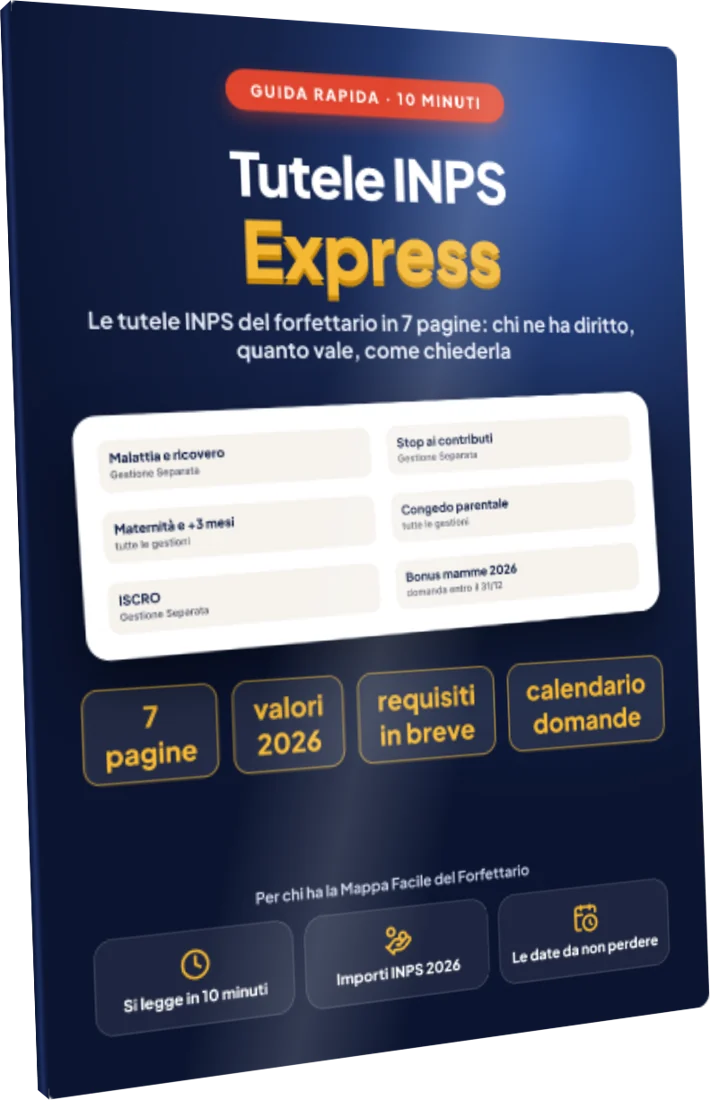
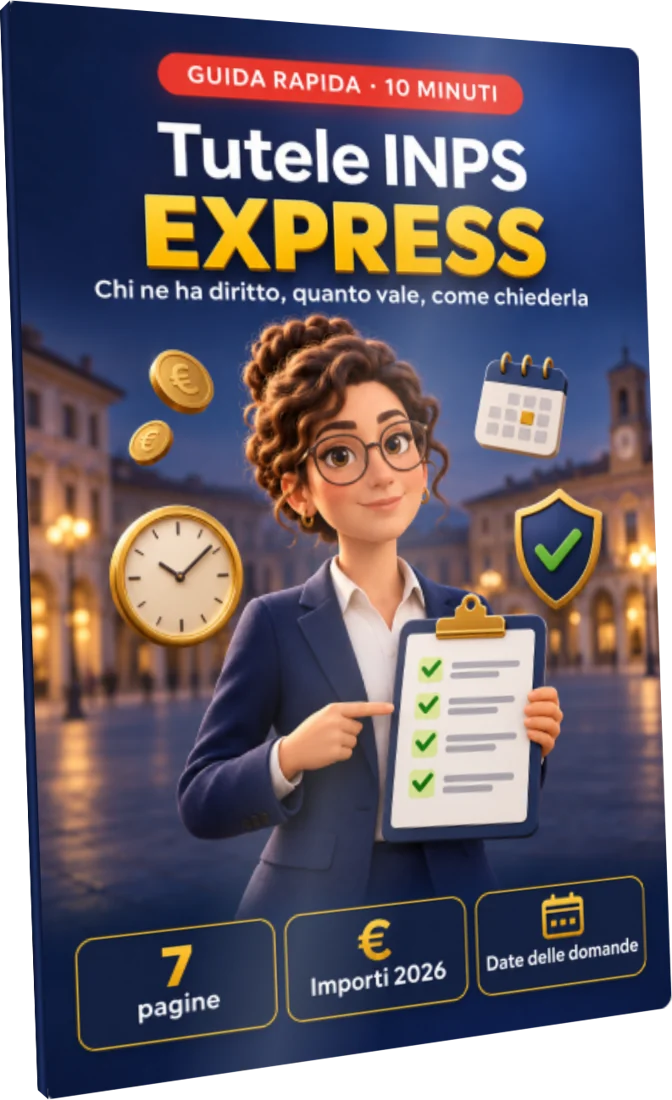
Downsell: nuova copertina di Tutele INPS Express
Claude-Session: https://claude.ai/code/session_01G62VscuhzUi7ehxGwPeDk4

diff --git a/downsell/index.html b/downsell/index.html
@@ -1,7 +1,7 @@
 <!DOCTYPE html><html lang="it"><head><meta charset="utf-8"><meta name="viewport" content="width=device-width,initial-scale=1"><meta name="robots" content="noindex,nofollow">
 <title>Prima di accedere: una versione più semplice</title><link rel="preconnect" href="https://fonts.googleapis.com"><link rel="preconnect" href="https://fonts.gstatic.com" crossorigin>
 <link href="https://fonts.googleapis.com/css2?family=Plus+Jakarta+Sans:wght@600;700;800&family=Inter:wght@400;500;600;700&display=swap" rel="stylesheet">
-<link rel="preload" as="image" href="/downsell/img/express.webp" fetchpriority="high"><style>
+<link rel="preload" as="image" href="/downsell/img/express.webp?v=2" fetchpriority="high"><style>
 :root{--bg:#0A1430;--bg2:#101D40;--card:rgba(255,255,255,.05);--line:rgba(255,255,255,.1);--tx:#E9EEF8;--mut:#9AA8C3;--gr:#2E8B57;--gr2:#47D18E;--am:#F4B53F;--am2:#FAD27A;--red:#FF7A6E;--navy:#16244A}
 *{box-sizing:border-box;margin:0;padding:0}html{background:var(--bg)}
 body{font-family:Inter,system-ui,sans-serif;color:var(--tx);background:var(--bg);line-height:1.45;-webkit-font-smoothing:antialiased;overflow-x:hidden}
@@ -105,7 +105,7 @@ fbq('init','1833382634562651');fbq('track','PageView');fbq('track','ViewContent'
 <div class="hc" id="offerta">
 <h1>Nessun problema.<em>Prendi solo l'essenziale.</em></h1>
 <p class="sub">Se una guida con calcolatore è troppo adesso, ecco la versione breve: <b>Tutele INPS Express</b>. Le tutele INPS del forfettario in 7 pagine: <b>chi ne ha diritto, quanto vale con gli importi 2026 e come chiederla.</b></p>
-<img class="mock" src="/downsell/img/express.webp" width="710" height="1100" alt="Tutele INPS Express" fetchpriority="high" style="max-width:300px;margin:16px auto 4px">
+<img class="mock" src="/downsell/img/express.webp?v=2" width="672" height="1100" alt="Tutele INPS Express" fetchpriority="high" style="max-width:300px;margin:16px auto 4px">
 <div class="price"><span class="now"><sup>€</sup>9,90</span><small><b>Pagamento unico</b>offerta di questa pagina</small></div>
 <div class="btnz"><div><div class="hm-card">
 <div class="hm-head"><svg class="" viewBox="0 0 24 24" fill="none" stroke="currentColor" stroke-width="2.4" stroke-linecap="round" stroke-linejoin="round"><path d="M12 5v14M6 13l6 6 6-6"/></svg>Aggiungila al mio ordine</div>
